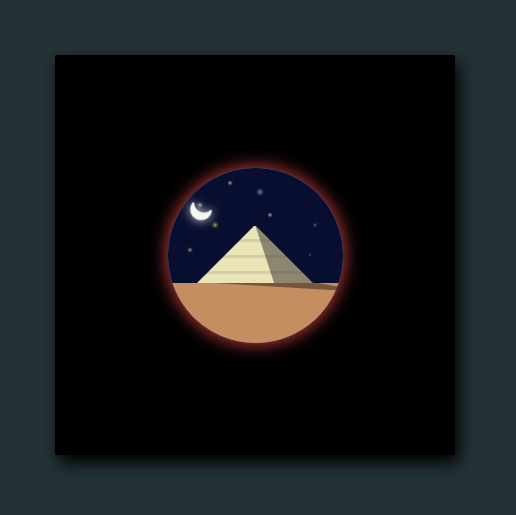
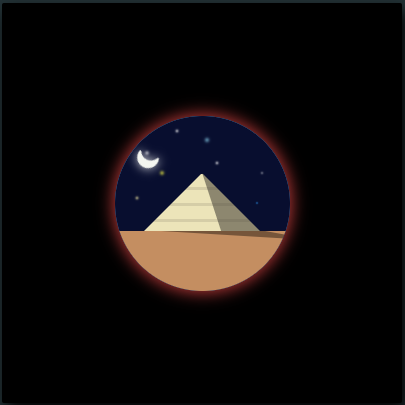
img resized

diff --git a/README.md b/README.md
@@ -2,7 +2,7 @@
 
 ## 001
 
-![001](/dia%23001/assets/img/001m.png)
+![001](/dia%23001/assets/img/001.png)
 
 ## 002
 
